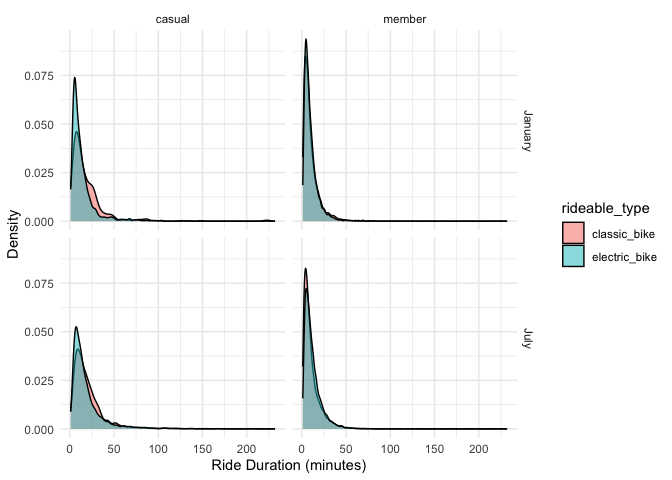
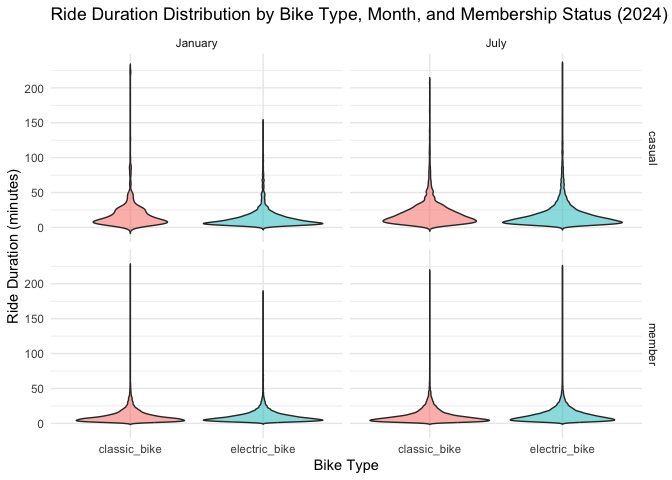
edit for plots and comments

diff --git a/p8105_hw3_qc2337.md b/p8105_hw3_qc2337.md
@@ -520,7 +520,7 @@ year on median ride duration.
  duration_plot =
    median_duration_df |> 
    ggplot(aes(x = weekdays, y = median_duration, group = month, color = month)) +
-   geom_line() + 
+   geom_point() + geom_line() + 
    facet_grid(. ~ year) + 
    labs(
      title = "Median Ride Duration by Day of the Week, Month, and Year",
@@ -544,23 +544,37 @@ compared to Saturday. 3. 2024 has a shorter median ride duration than
 For data in 2024, make a figure that shows the impact of month,
 membership status, and bike type on the distribution of ride duration
 
+I made a violin plot and also a density plot to see the distribution of
+ride duration. First, let’s try the violin plot
+
 ``` r
  citibike24_df = 
    citibike_df|> 
    filter(year == 2024)
 
  citibike24_df |> 
-   ggplot(aes(x = duration, fill = rideable_type)) +
-   geom_density(alpha = 0.5) +
-   facet_grid(month ~ member_casual) +
-   labs(x = "Ride Duration (minutes)", y = "Density") +
-   theme_minimal()
+   ggplot(aes(x = rideable_type, y = duration, fill = rideable_type)) +
+   geom_violin(trim = FALSE, alpha = 0.5) +
+   facet_grid(member_casual ~ month) +
+   labs(
+        title = "Ride Duration Distribution by Bike Type, Month, and Membership Status (2024)",
+         x = "Bike Type",
+         y = "Ride Duration (minutes)",
+         fill = "Bike Type"
+  ) +
+  theme_minimal() +
+  theme(legend.position = "none")
 ```
 
 ![](p8105_hw3_qc2337_files/figure-gfm/unnamed-chunk-18-1.png)<!-- -->
+Comment: 1. Electric bikes tend to have a broader range of ride
+durations compared to classic bikes. 2. Members tend to have more
+consistent ride durations with a narrower distribution, especially
+visible in the plots for July. 3.Rides in July, for both bike types and
+user types, tend to have a slightly wider range of durations.
 
 Make another density plot to focus more closely on the relevant parts of
-the data
+the data, I want to see the specific part contains only 0-100 minutes.
 
 ``` r
  citibike24_df |> 
